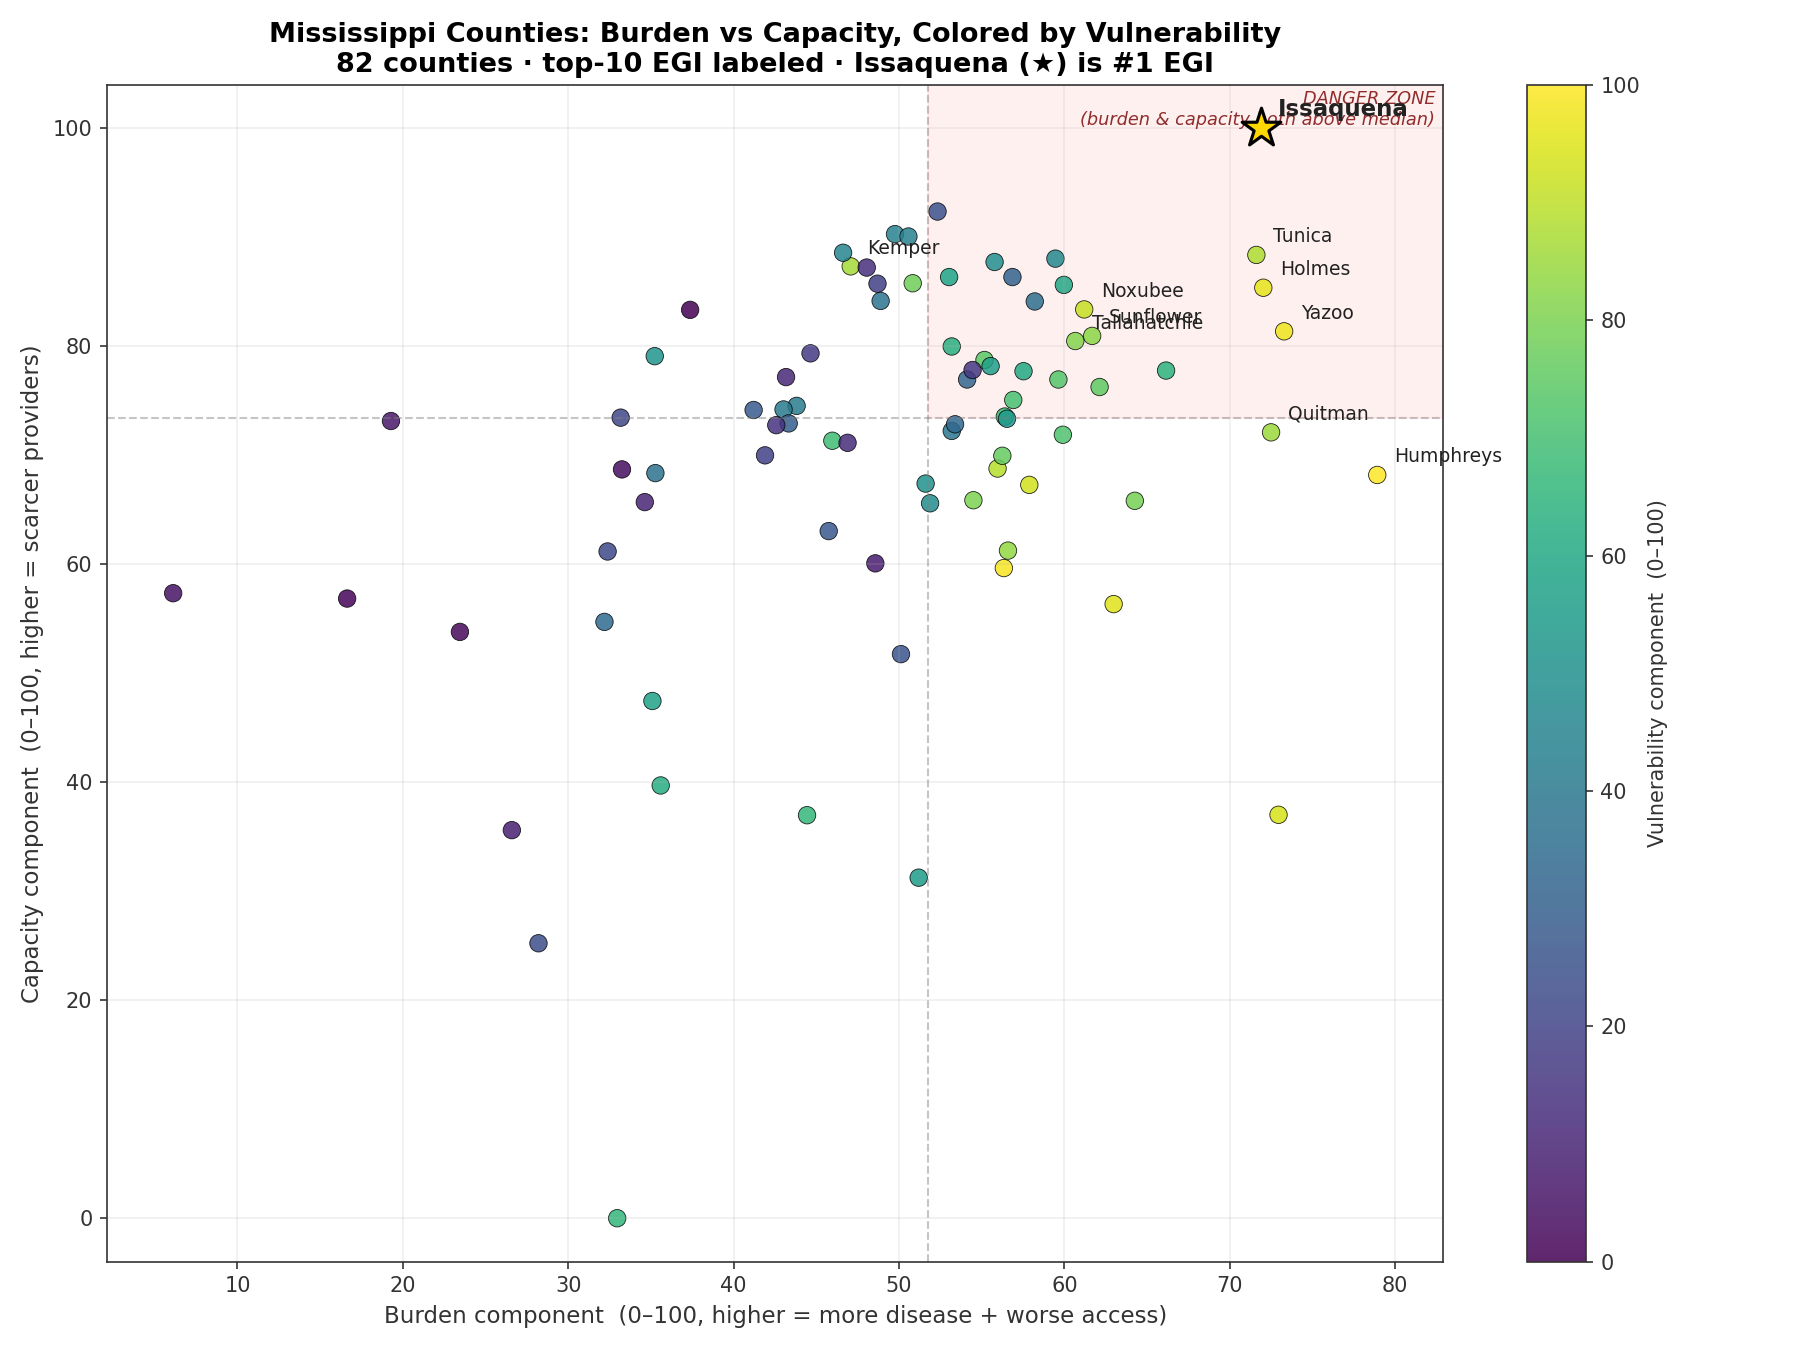
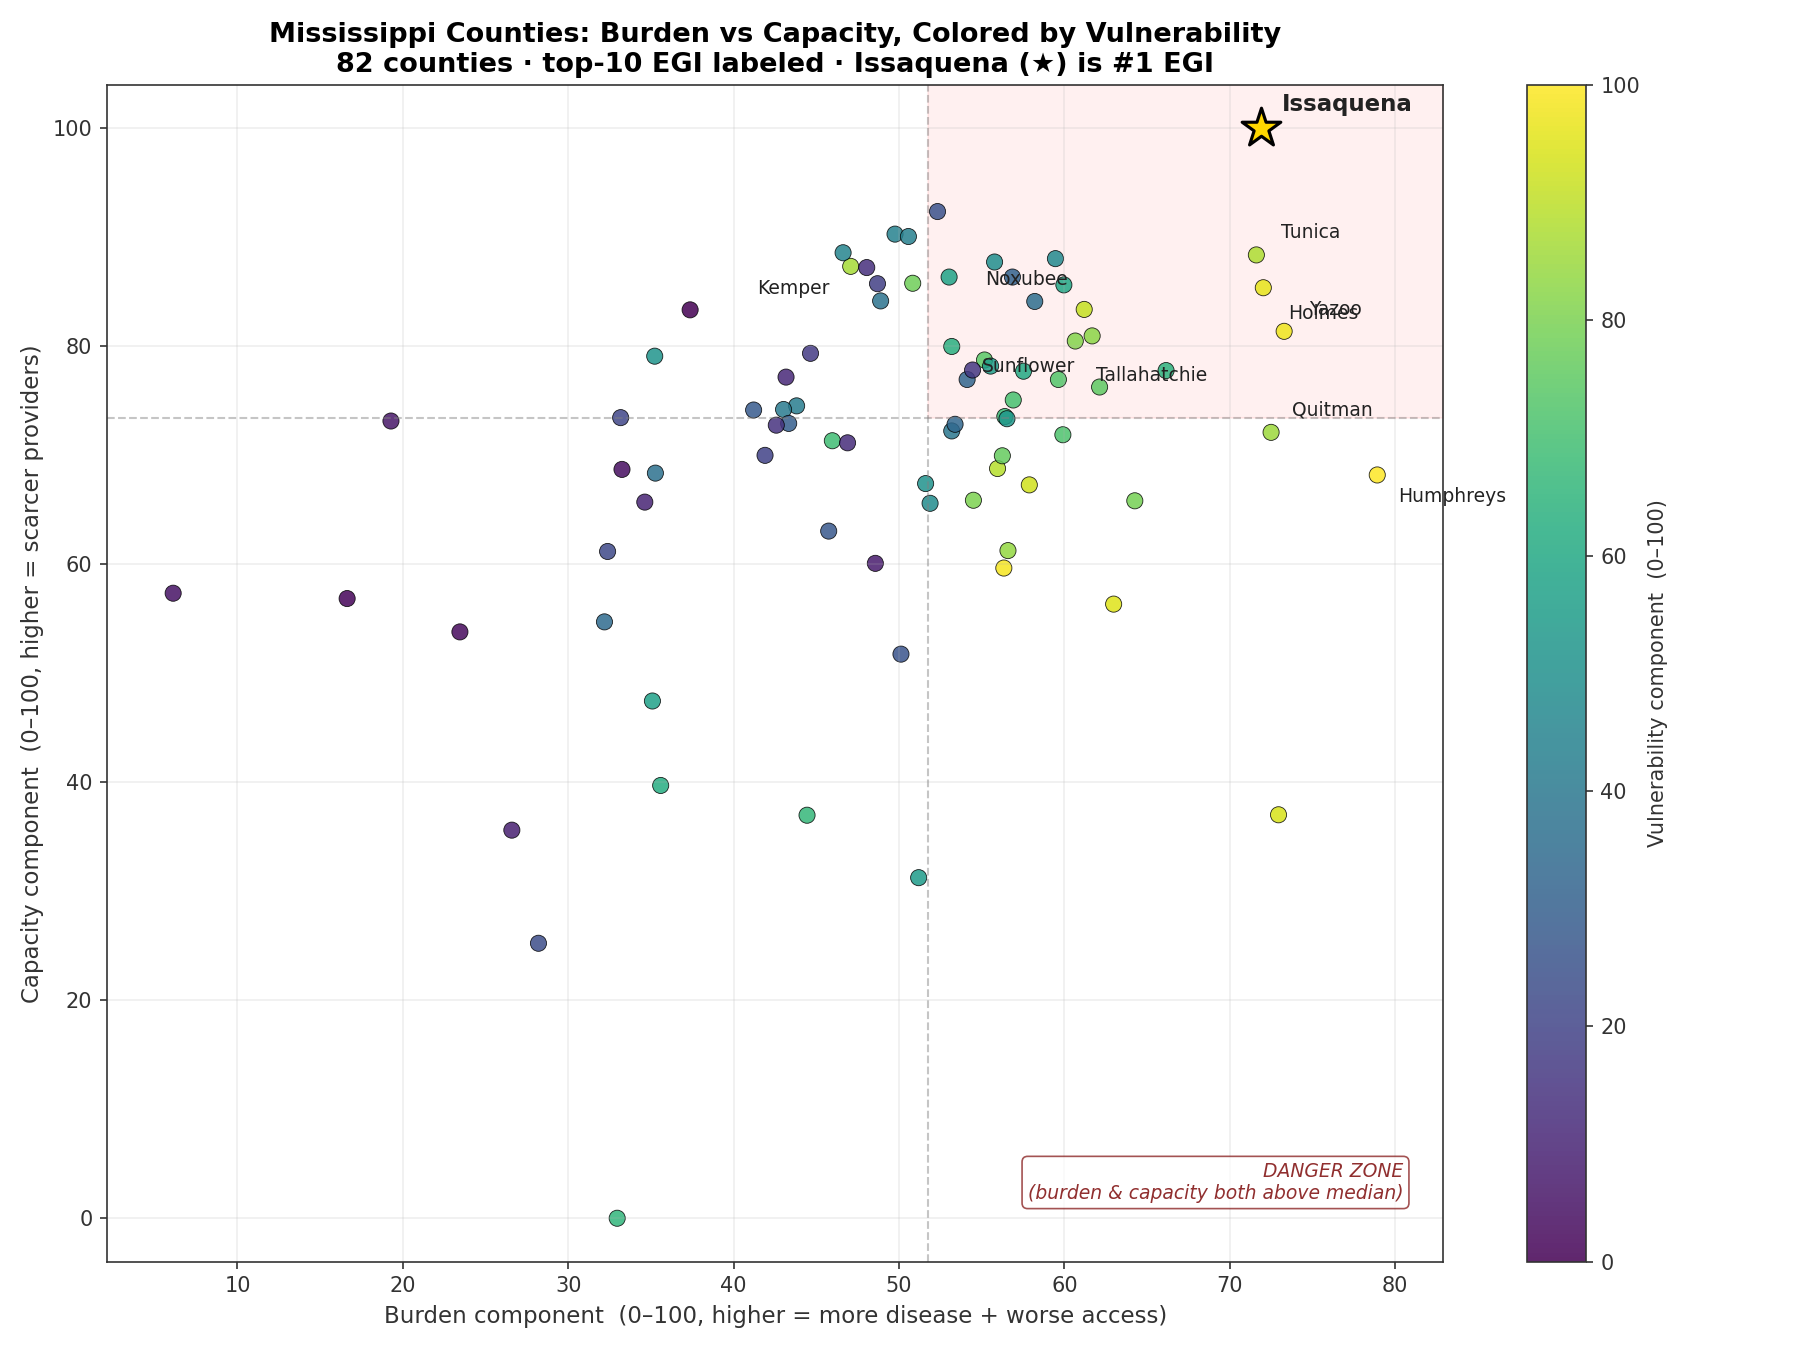
Phase 4: five visualizations + V4 label-overlap fix
Initial render of V4 (burden vs capacity scatter) had three label
collision problems flagged on visual inspection:
  1. DANGER ZONE annotation collided with Issaquena's bold label.
  2. Tunica + Holmes labels too close in the upper-middle.
  3. Noxubee/Sunflower/Tallahatchie labels piled up.

Fixes applied to visualize_burden_capacity_scatter() only:
  - Fix A: DANGER ZONE label re-pinned to axes-relative (0.97, 0.05)
           bottom-right in the empty plot space, white box + red border.
  - Fix B: per-county manual textcoord offsets dict (Issaquena 10,6;
           Tunica 12,6; Holmes 12,-8; Noxubee -8,10; Sunflower -8,-10;
           Tallahatchie 10,-12; Yazoo 12,6; Quitman 10,6; Humphreys
           10,-6; Kemper -10,-6). ha/va auto-derived from offset sign.
  - Fix C: scatter dot size 70 -> 60 to reduce dot-label encroachment.
           Issaquena gold star stays at s=380.

Verified by re-inspection: DANGER ZONE no longer collides, top-10
labels separated, Issaquena star still the prominent visual focus.

docs/presentation_talking_points.md updated with all 3 pairwise
component correlations (b<->v 0.734, c<->b 0.394, c<->v 0.064) for
the README Limitations section.

diff --git a/python/02_visualize.py b/python/02_visualize.py
@@ -338,13 +338,21 @@ def visualize_drivers_grid(top10: pd.DataFrame) -> bool:
 def visualize_burden_capacity_scatter(egi: pd.DataFrame) -> bool:
     """V4 — All 82 counties; viridis color by vulnerability; danger-zone
     shading in the both-above-median quadrant; top-10 labeled with
-    Issaquena highlighted via gold star + bold label."""
+    Issaquena highlighted via gold star + bold label.
+
+    Label-overlap fixes (post first-render review):
+    - DANGER ZONE annotation moved to axes-relative bottom-right (out of
+      the danger region itself) to avoid colliding with Issaquena label.
+    - Per-county manual label offsets to resolve the upper-cluster
+      pile-ups (Tunica/Holmes, Noxubee/Sunflower/Tallahatchie).
+    - Dot size reduced 70 -> 60 to reduce dot-label encroachment.
+    """
     logger.info("=== V4: burden vs capacity scatter ===")
     fig, ax = plt.subplots(figsize=(12, 9))
     sc = ax.scatter(
         egi.burden_component, egi.capacity_component,
         c=egi.vulnerability_component, cmap="viridis",
-        s=70, edgecolor="black", linewidth=0.4, alpha=0.85,
+        s=60, edgecolor="black", linewidth=0.4, alpha=0.85,
         vmin=0, vmax=100,
     )
     cbar = plt.colorbar(sc, ax=ax)
@@ -360,19 +368,39 @@ def visualize_burden_capacity_scatter(egi: pd.DataFrame) -> bool:
     ax.axvline(med_b, color="gray", linestyle="--", alpha=0.45, linewidth=1)
     ax.axhline(med_c, color="gray", linestyle="--", alpha=0.45, linewidth=1)
     ax.fill_betweenx([med_c, max_c], med_b, max_b, color="red", alpha=0.06, zorder=0)
-    ax.text(max_b - 0.5, max_c - 0.5,
-            "DANGER ZONE\n(burden & capacity both above median)",
-            fontsize=8.5, style="italic", color="#7d0a0a",
-            ha="right", va="top", alpha=0.85)
+    # Fix A: DANGER ZONE label pinned to axes-relative bottom-right (empty area)
+    ax.text(0.97, 0.05, "DANGER ZONE\n(burden & capacity both above median)",
+            transform=ax.transAxes, ha="right", va="bottom",
+            fontsize=9, style="italic", color="#7d0a0a", alpha=0.85,
+            bbox=dict(boxstyle="round,pad=0.3", fc="white",
+                      ec="#7d0a0a", lw=0.8, alpha=0.7))
+
+    # Fix B: per-county manual offsets to break up the upper-cluster pile-ups
+    label_offsets = {
+        "Issaquena County":   (10, 6),
+        "Tunica County":      (12, 6),
+        "Holmes County":      (12, -8),
+        "Noxubee County":     (-8, 10),
+        "Sunflower County":   (-8, -10),
+        "Tallahatchie County":(10, -12),
+        "Yazoo County":       (12, 6),
+        "Quitman County":     (10, 6),
+        "Humphreys County":   (10, -6),
+        "Kemper County":      (-10, -6),
+    }
 
     # Top-10 labels (Issaquena bolder/larger)
     top10 = egi[egi.egi_rank <= 10]
     for _, row in top10.iterrows():
         is_issaquena = row.county_name == "Issaquena County"
+        dx, dy = label_offsets.get(row.county_name, (8, 6))
+        ha = "left" if dx >= 0 else "right"
+        va = "bottom" if dy >= 0 else "top"
         ax.annotate(
             row.county_name.replace(" County", ""),
             xy=(row.burden_component, row.capacity_component),
-            xytext=(8, 6), textcoords="offset points",
+            xytext=(dx, dy), textcoords="offset points",
+            ha=ha, va=va,
             fontsize=11 if is_issaquena else 9,
             fontweight="bold" if is_issaquena else "normal",
             color="#222",

diff --git a/docs/presentation_talking_points.md b/docs/presentation_talking_points.md
@@ -27,6 +27,26 @@ Every number above is verified directly against `database.db` (see
 queries used during Phase 3 Step D). Use this for: the opening slide hook,
 the README opener, and the README "key findings" section.
 
+### Statistical findings for README and limitations
+
+Pearson correlations among the three EGI components (82 MS counties):
+
+| Pair                              | r      | Interpretation                                |
+|-----------------------------------|-------:|-----------------------------------------------|
+| burden ↔ vulnerability            | 0.734  | partial double-counting (see Limitations)     |
+| capacity ↔ burden                 | 0.394  | modest — fine                                 |
+| capacity ↔ vulnerability          | 0.064  | genuinely independent — strong design signal  |
+
+**README Limitations section (verbatim usable):**
+
+> The burden and vulnerability components are moderately-to-strongly
+> correlated (r = 0.734), indicating partial double-counting — both pick up
+> structural disadvantage in Delta counties. Capacity is genuinely
+> independent of vulnerability (r = 0.064) and only modestly correlated with
+> burden (r = 0.394). Future work could apply orthogonalization (e.g., PCA-
+> derived weights) or report a "unique burden" and "unique vulnerability"
+> score after partialing out shared variance.
+
 ### Statistical validation findings (Phase 3.5)
 
 Use these in the Methods / Results / Limitations slides and in the README's